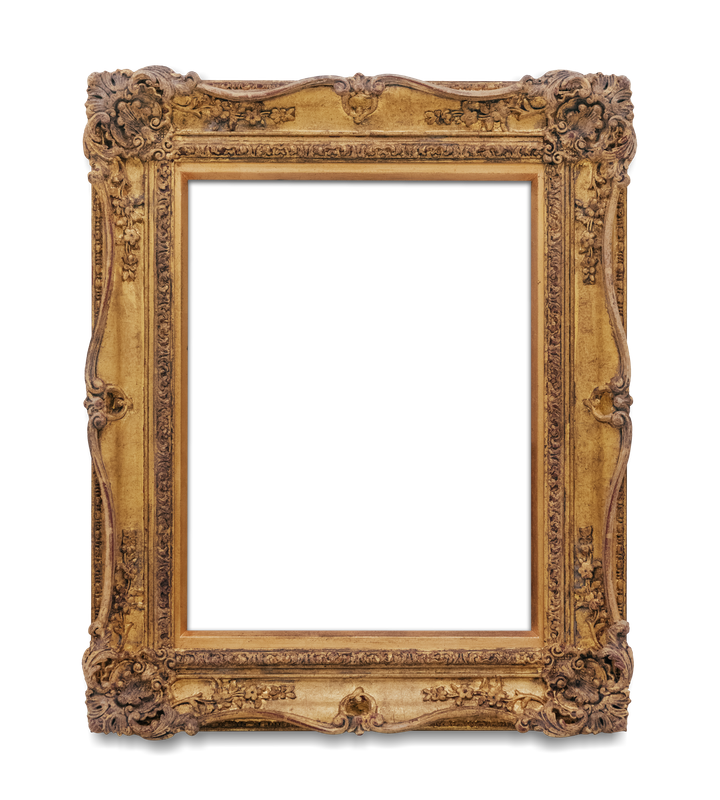
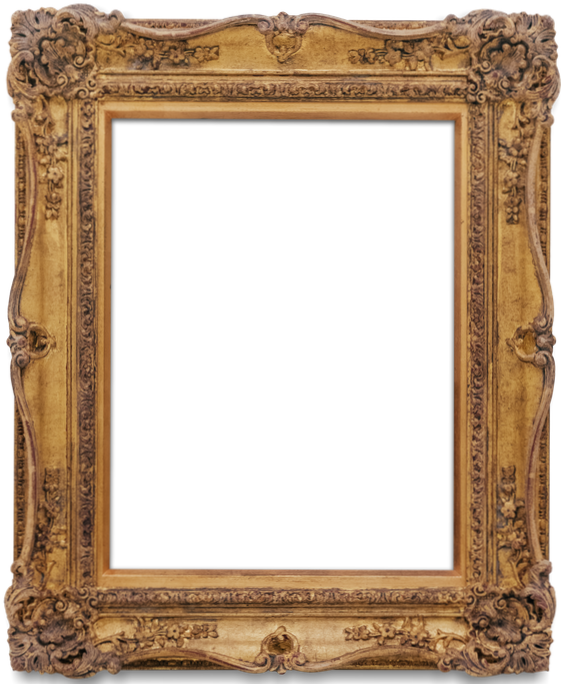
added the framework for multiple frame images

diff --git a/public/resources/styles.css b/public/resources/styles.css
@@ -424,7 +424,7 @@ html {
 #blog_entries {
     display: flex;
     width: 100%;
-    flex-direction: column;
+    /*flex-direction: column;*/
     align-items: center;
 }
 
@@ -455,6 +455,27 @@ html {
     position: absolute;
     bottom: 40px;
     right: 40px;
+}
+
+.frame_entry img {
+    position: absolute;
+    pointer-events: none;
+}
+
+.frame1 {
+    --f1-height: 315px;
+    --f1-width: 258px;
+    --f1-inset: 51px;
+    --f1-bleed: 20px;
+    height: var(--f1-height);
+    width: var(--f1-width);
+}
+
+.frame1 div {
+    height: calc(var(--f1-height) - (var(--f1-inset) * 2));
+    width: calc(var(--f1-width) - (var(--f1-inset) * 2));
+    margin: calc(var(--f1-inset) - var(--f1-bleed));
+    padding: var(--f1-bleed);
 }
 
 /*This section for absolute position bg images*/
